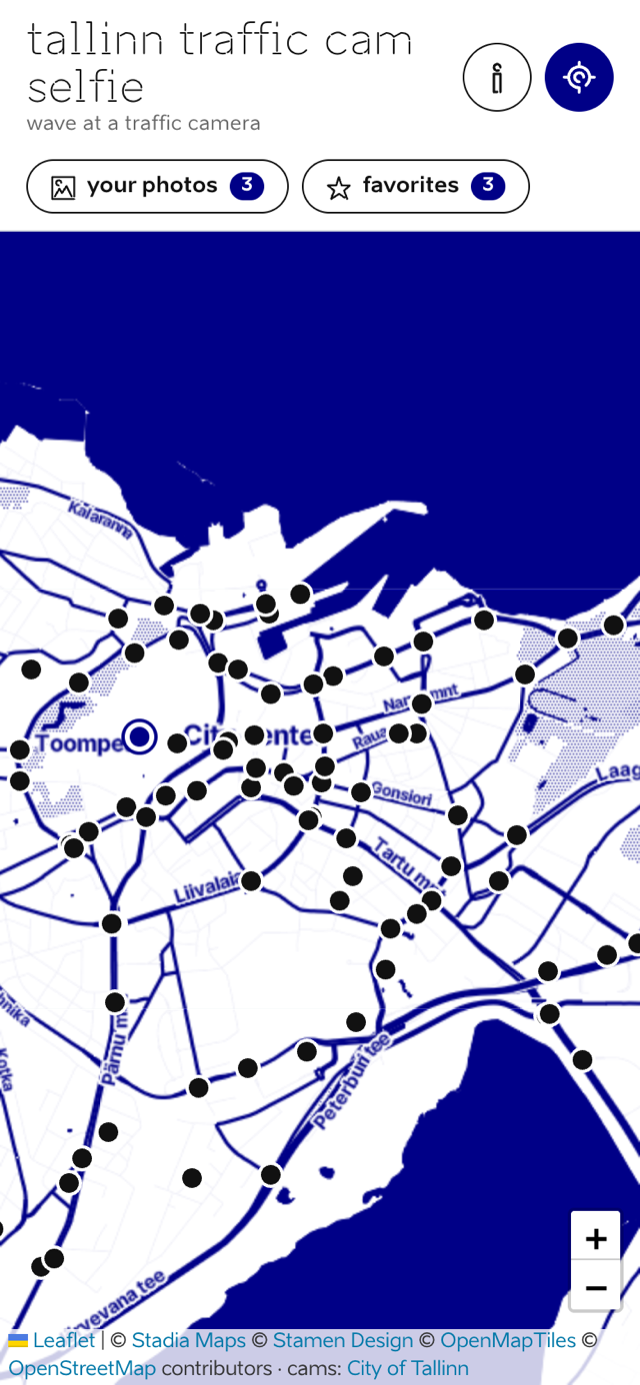
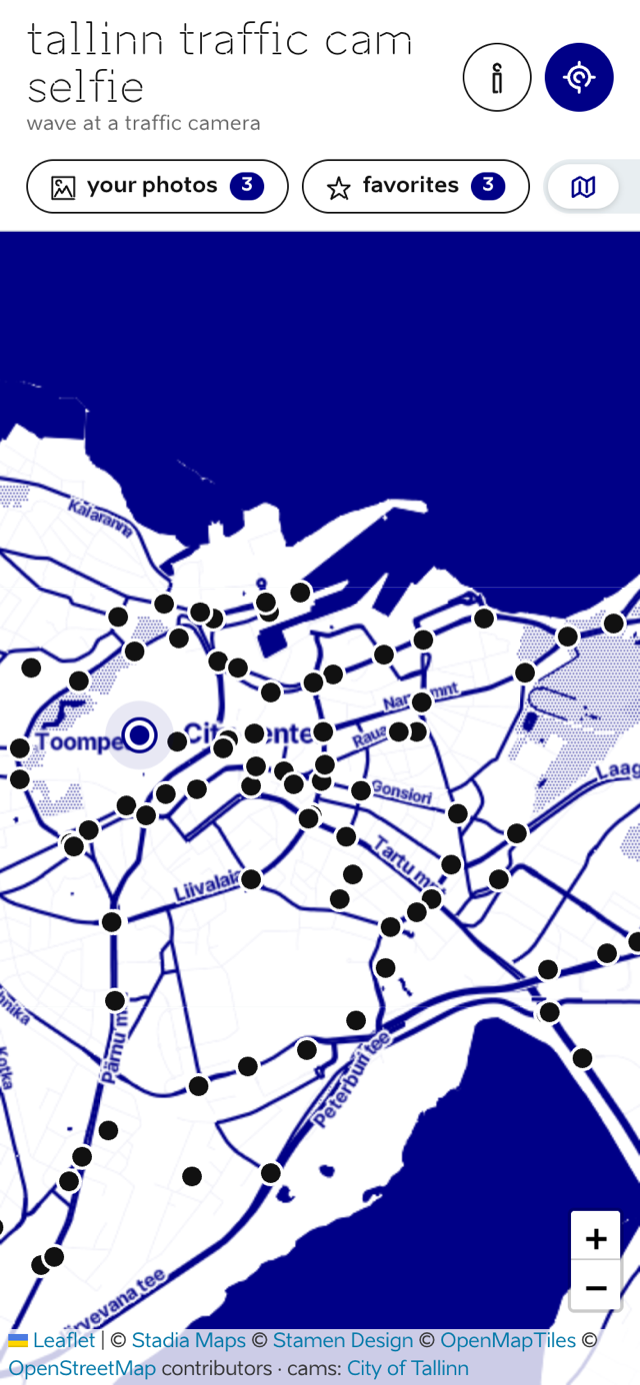
add list view

diff --git a/app/app.js b/app/app.js
@@ -11,8 +11,8 @@ const AREAS = {
 
 const $ = (id) => document.getElementById(id);
 const state = {
-  cams: [], spots: new Map(), markers: new Map(),
-  sel: null, selSpot: null,
+  cams: [], spots: new Map(), markers: new Map(), byId: new Map(),
+  sel: null, selSpot: null, view: "map",
   user: null, userMarker: null, accCircle: null, line: null,
   watching: false, watchId: null,
   previewTimer: null, wakeLock: null, lastCapture: "now",
@@ -271,6 +271,55 @@ function toggleFav(id) {
   updateFavBtn();
   updateNavCounts();
   if (!$("favs").hidden) renderFavs();
+  const star = listStars.get(id);
+  if (star) {
+    star.classList.toggle("on", isFav(id));
+    star.setAttribute("aria-pressed", String(isFav(id)));
+    star.title = isFav(id) ? "Remove from favorites" : "Save to favorites";
+  }
+}
+
+const STAR_SVG = '<svg class="ico" width="20" height="20" aria-hidden="true"><use href="#i-star"/></svg>';
+
+/* name, area badge, approx marker, distance; shared by favorites and list rows */
+function camRowMain(cam) {
+  const main = document.createElement("div");
+  main.className = "fav-main";
+  const name = document.createElement("div");
+  name.className = "fav-name";
+  name.textContent = camLabel(cam);
+  const meta = document.createElement("div");
+  meta.className = "fav-meta";
+  const badge = document.createElement("span");
+  badge.className = "badge";
+  badge.textContent = areaName(cam);
+  meta.appendChild(badge);
+  if (cam.approx) {
+    const ap = document.createElement("span");
+    ap.textContent = "≈ approximate location";
+    meta.appendChild(ap);
+  }
+  const dist = document.createElement("span");
+  dist.className = "fav-dist";
+  if (state.user) {
+    dist.textContent = `${fmtDist(haversine(state.user, cam))} ${compass(bearing(state.user, cam))}`;
+  }
+  meta.appendChild(dist);
+  main.appendChild(name);
+  main.appendChild(meta);
+  return { main, dist };
+}
+
+function rowGoesTo(row, cam) {
+  const go = () => {
+    $("favs").hidden = true;
+    selectSpot(state.spots.get(spotKey(cam)), cam.id);
+  };
+  row.tabIndex = 0;
+  row.setAttribute("role", "button");
+  row.setAttribute("aria-label", `Open ${shortName(cam)}`);
+  row.onclick = go;
+  row.onkeydown = (e) => { if (e.key === "Enter" || e.key === " ") { e.preventDefault(); go(); } };
 }
 
 function renderFavs() {
@@ -287,52 +336,110 @@ function renderFavs() {
   for (const cam of cams) {
     const row = document.createElement("div");
     row.className = "fav-row";
-    row.tabIndex = 0;
-    row.setAttribute("role", "button");
-    row.setAttribute("aria-label", `Open ${shortName(cam)}`);
+    rowGoesTo(row, cam);
 
-    const main = document.createElement("div");
-    main.className = "fav-main";
+    const rm = document.createElement("button");
+    rm.className = "fav-remove";
+    rm.title = "Remove from favorites";
+    rm.setAttribute("aria-label", "Remove from favorites");
+    rm.innerHTML = STAR_SVG;
+    rm.onclick = (e) => { e.stopPropagation(); toggleFav(cam.id); };
+
+    row.appendChild(camRowMain(cam).main);
+    row.appendChild(rm);
+    list.appendChild(row);
+  }
+}
+
+/* ---------- map / list view ---------- */
+const VIEW_KEY = "tcs-view-v1";
+const listStars = new Map(); // camId -> star button in the list
+const listDists = new Map(); // camId -> distance span in the list
+
+function setView(v) {
+  state.view = v;
+  try { localStorage.setItem(VIEW_KEY, v); } catch { /* full */ }
+  $("view-map").classList.toggle("on", v === "map");
+  $("view-list").classList.toggle("on", v === "list");
+  $("view-map").setAttribute("aria-pressed", String(v === "map"));
+  $("view-list").setAttribute("aria-pressed", String(v === "list"));
+  if (v === "list") { state.listTs = Date.now(); renderList(); }
+  $("list").hidden = v !== "list";
+}
+
+function renderList() {
+  const box = $("list");
+  box.innerHTML = "";
+  listStars.clear();
+  listDists.clear();
+  state.listSortedByDist = !!state.user;
+  const ts = state.listTs || Date.now();
+  const cams = [...state.cams].sort((a, b) =>
+    state.user
+      ? haversine(state.user, a) - haversine(state.user, b)
+      : shortName(a).localeCompare(shortName(b), "et"));
+  for (const cam of cams) {
+    const card = document.createElement("div");
+    card.className = "cam-card";
+    rowGoesTo(card, cam);
+
+    const imgWrap = document.createElement("div");
+    imgWrap.className = "cam-card-img";
+    const im = document.createElement("img");
+    im.src = imgUrl(cam.id, ts);
+    im.alt = cam.name;
+    im.loading = "lazy";
+    im.decoding = "async";
+    im.onerror = () => { im.remove(); };
+    imgWrap.appendChild(im);
+
+    const star = document.createElement("button");
+    star.className = "cam-card-star" + (isFav(cam.id) ? " on" : "");
+    star.title = isFav(cam.id) ? "Remove from favorites" : "Save to favorites";
+    star.setAttribute("aria-label", "Favorite");
+    star.setAttribute("aria-pressed", String(isFav(cam.id)));
+    star.innerHTML = '<svg class="ico" width="17" height="17" aria-hidden="true"><use href="#i-star"/></svg>';
+    star.onclick = (e) => { e.stopPropagation(); toggleFav(cam.id); };
+    listStars.set(cam.id, star);
+    imgWrap.appendChild(star);
+
     const name = document.createElement("div");
-    name.className = "fav-name";
+    name.className = "cam-card-name";
     name.textContent = camLabel(cam);
+
     const meta = document.createElement("div");
-    meta.className = "fav-meta";
+    meta.className = "cam-card-meta";
     const badge = document.createElement("span");
     badge.className = "badge";
     badge.textContent = areaName(cam);
     meta.appendChild(badge);
     if (cam.approx) {
       const ap = document.createElement("span");
-      ap.textContent = "≈ approximate location";
+      ap.textContent = "≈";
+      ap.title = "approximate location";
       meta.appendChild(ap);
     }
+    const dist = document.createElement("span");
+    dist.className = "cam-card-dist";
     if (state.user) {
-      const d = document.createElement("span");
-      d.className = "fav-dist";
-      d.textContent = `${fmtDist(haversine(state.user, cam))} ${compass(bearing(state.user, cam))}`;
-      meta.appendChild(d);
+      dist.textContent = `${fmtDist(haversine(state.user, cam))} ${compass(bearing(state.user, cam))}`;
     }
-    main.appendChild(name);
-    main.appendChild(meta);
+    meta.appendChild(dist);
+    listDists.set(cam.id, dist);
 
-    const rm = document.createElement("button");
-    rm.className = "fav-remove";
-    rm.title = "Remove from favorites";
-    rm.setAttribute("aria-label", "Remove from favorites");
-    rm.innerHTML = '<svg class="ico" width="20" height="20" aria-hidden="true"><use href="#i-star"/></svg>';
-    rm.onclick = (e) => { e.stopPropagation(); toggleFav(cam.id); };
+    card.appendChild(imgWrap);
+    card.appendChild(name);
+    card.appendChild(meta);
+    box.appendChild(card);
+  }
+}
 
-    const go = () => {
-      $("favs").hidden = true;
-      selectSpot(state.spots.get(spotKey(cam)), cam.id);
-    };
-    row.onclick = go;
-    row.onkeydown = (e) => { if (e.key === "Enter" || e.key === " ") { e.preventDefault(); go(); } };
-
-    row.appendChild(main);
-    row.appendChild(rm);
-    list.appendChild(row);
+function updateListDists() {
+  if (!state.user || $("list").hidden) return;
+  if (!state.listSortedByDist) { renderList(); return; } // first fix: re-sort nearest first
+  for (const [id, el] of listDists) {
+    const cam = state.byId.get(id);
+    if (cam) el.textContent = `${fmtDist(haversine(state.user, cam))} ${compass(bearing(state.user, cam))}`;
   }
 }
 
@@ -673,6 +780,7 @@ function onPosition(lat, lng, acc) {
   }
   updateDistance();
   updateLine();
+  updateListDists();
 }
 
 function startLocating() {
@@ -706,9 +814,11 @@ async function boot() {
     const r = await fetch("data/cameras.json");
     const data = await r.json();
     state.cams = data.cams.filter(c => c.lat != null);
+    state.byId = new Map(state.cams.map(c => [c.id, c]));
     const skipped = data.cams.length - state.cams.length;
     buildSpots();
     renderMarkers();
+    if (localStorage.getItem(VIEW_KEY) === "list") setView("list");
     toast(`${state.cams.length} cameras on the map${skipped ? ` (${skipped} without a location)` : ""}`);
   } catch (e) {
     toast("could not load camera data");
@@ -749,6 +859,8 @@ $("btn-fav").onclick = () => {
   toggleFav(state.sel.id);
   toast(isFav(state.sel.id) ? "saved to favorites" : "removed from favorites", 1800);
 };
+$("view-map").onclick = () => setView("map");
+$("view-list").onclick = () => setView("list");
 $("nav-favs").onclick = () => { renderFavs(); $("favs").hidden = false; };
 $("favs-close").onclick = () => { $("favs").hidden = true; };
 $("nav-gallery").onclick = () => { renderGallery(); $("gallery").hidden = false; };

diff --git a/app/index.html b/app/index.html
@@ -43,7 +43,7 @@
   </div>
 </header>
 
-<nav class="chips" id="nav" aria-label="Your photos and favorites">
+<nav class="chips" id="nav" aria-label="View, your photos, and favorites">
   <button class="chip" id="nav-gallery">
     <svg class="ico" width="15" height="15" aria-hidden="true"><use href="#i-picture"/></svg>
     your photos <span class="chip-count" id="count-gallery" hidden>0</span>
@@ -52,9 +52,20 @@
     <svg class="ico" width="15" height="15" aria-hidden="true"><use href="#i-star"/></svg>
     favorites <span class="chip-count" id="count-favs" hidden>0</span>
   </button>
+  <div class="seg" role="group" aria-label="Map or list view">
+    <button class="chip on" id="view-map" aria-pressed="true" aria-label="Map view" title="Map view">
+      <svg class="ico" width="17" height="17" aria-hidden="true"><use href="#i-map"/></svg>
+    </button>
+    <button class="chip" id="view-list" aria-pressed="false" aria-label="List view" title="List view">
+      <svg class="ico" width="17" height="17" aria-hidden="true"><use href="#i-list"/></svg>
+    </button>
+  </div>
 </nav>
 
-<main id="map" aria-label="Camera map"></main>
+<main class="stage">
+  <div id="map" aria-label="Camera map"></div>
+  <section class="cam-list" id="list" hidden aria-label="All cameras"></section>
+</main>
 
 <div class="status" id="status" hidden></div>
 
@@ -117,9 +128,17 @@
   <h2 class="result-title">about &amp; privacy</h2>
 
   <div class="about-body">
-    <p><b>tallinn cam selfie</b> is a hobby project that turns Tallinn's public
+    <p><b>tallinn traffic cam selfie</b> is a hobby project that turns Tallinn's public
     traffic cameras into selfie cameras: walk to one, start the countdown, wave.
     It is not affiliated with the City of Tallinn, Visit Estonia, or Brand Estonia.</p>
+
+    <h3>support this project</h3>
+    <p>free, no ads, no tracking. if it made you smile at a traffic camera,
+      you can support it with a small donation. the button is a plain link.
+      nothing loads until you tap it.</p>
+    <p><a class="btn btn-ghost" href="https://ko-fi.com/C3P325H540" target="_blank" rel="noopener">
+      <svg class="ico" width="18" height="18" aria-hidden="true"><use href="#i-coffee"/></svg>
+      support on ko-fi</a></p>
 
     <h3>data sources &amp; credits</h3>
     <ul>
@@ -260,6 +279,9 @@
     <symbol id="i-exclaim" viewBox="26 12 16 42"><path fill="none" stroke="currentColor" stroke-linecap="round" stroke-linejoin="round" stroke-width="3" d="M31.003 37H29l-1-22h8l-1 22m-3 12a4 4 0 1 1 4-4"/></symbol>
     <symbol id="i-info" viewBox="24 11 16 40"><path fill="none" stroke="currentColor" stroke-linecap="round" stroke-linejoin="round" stroke-width="3" d="M32.003 49H28V27h8v22m0-30a4 4 0 1 0-2 3.464"/></symbol>
     <symbol id="i-target" viewBox="0 0 24 24"><path fill="none" stroke="currentColor" stroke-linecap="round" stroke-linejoin="round" stroke-width="2" d="M19 12a7 7 0 0 0-7-7m7 7c0 2.17-.987 4.108-2.536 5.392M19 12h3M12 5a7 7 0 0 0-7 7m7-7V2M5 12a7 7 0 0 0 7 7v3M5 12H2m10 3a3 3 0 1 1 3-3"/></symbol>
+    <symbol id="i-map" viewBox="0 0 24 24"><path fill="none" stroke="currentColor" stroke-linecap="round" stroke-linejoin="round" stroke-width="2" d="M15 8v9M9 8v9M3 7.579 9 4l6 3.579L21 4v13.421L15 21l-6-3.579L3 21z"/></symbol>
+    <symbol id="i-list" viewBox="0 0 24 24"><path fill="none" stroke="currentColor" stroke-linecap="round" stroke-linejoin="round" stroke-width="2" d="M9 5h12M9 12h12M9 19h12M5 5a1 1 0 1 1-2 0 1 1 0 0 1 2 0m0 7a1 1 0 1 1-2 0 1 1 0 0 1 2 0m0 7a1 1 0 1 1-2 0 1 1 0 0 1 2 0"/></symbol>
+    <symbol id="i-coffee" viewBox="16 9 36 42"><path fill="none" stroke="currentColor" stroke-linecap="round" stroke-linejoin="round" stroke-width="3" d="M44 39l-.999 10H21l-2-19.07h26L44 35h2.865a4.134 4.134 0 1 1 0 8.27M30.085 29s-.76-6 2.28-9C35.408 17 35 14 35 11m-1.001 15s-.252-2.606 3-4 3-4 3-4"/></symbol>
     <symbol id="i-clock" viewBox="0 0 24 24"><path fill="none" stroke="currentColor" stroke-linecap="round" stroke-linejoin="round" stroke-width="2" d="M12 23C5.925 23 1 18.075 1 12m11 11a10.95 10.95 0 0 0 6-1.779M12 23v-2M1 12C1 5.925 5.925 1 12 1M1 12h2m9-11c6.075 0 11 4.925 11 11M12 1v2m11 9a10.95 10.95 0 0 1-1.779 6M23 12h-2m-9-6v6l4 2"/></symbol>
   </defs>
 </svg>

diff --git a/app/style.css b/app/style.css
@@ -95,8 +95,56 @@ body {
 /* optical centering: lowercase text sits low in its box, nudge icons to match */
 .chip .ico, .badge .ico, .btn .ico { position: relative; top: 1px; }
 
-/* ---- map ---- */
-#map { flex: 1; min-height: 0; z-index: 1; background: var(--mist); }
+/* ---- map / list stage ---- */
+.stage { flex: 1; min-height: 0; position: relative; z-index: 1; }
+#map { position: absolute; inset: 0; background: var(--mist); }
+.cam-list {
+  position: absolute; inset: 0; z-index: 1001; /* above leaflet controls */
+  background: var(--paper);
+  overflow-y: auto; -webkit-overflow-scrolling: touch;
+  padding: 12px var(--pad) 24px;
+  display: grid;
+  grid-template-columns: repeat(auto-fill, minmax(150px, 1fr));
+  gap: 14px 12px; align-content: start;
+}
+.cam-card { cursor: pointer; }
+.cam-card-img {
+  position: relative; aspect-ratio: 16/9;
+  background: var(--mist); border: 1px solid var(--line);
+  border-radius: 10px; overflow: hidden;
+}
+.cam-card-img img { width: 100%; height: 100%; object-fit: cover; display: block; }
+.cam-card-star {
+  position: absolute; top: 6px; right: 6px;
+  width: 32px; height: 32px; border-radius: 50%; border: none;
+  background: rgba(0, 0, 0, .45); color: #fff;
+  display: grid; place-items: center; cursor: pointer;
+}
+.cam-card-star.on { background: var(--accent); }
+.cam-card-name {
+  font-weight: 700; font-size: 13px; text-transform: lowercase;
+  line-height: 1.25; margin-top: 6px;
+}
+.cam-card-meta {
+  display: flex; gap: 6px; align-items: center; flex-wrap: wrap;
+  font-size: 11px; color: #777; margin-top: 3px;
+}
+.cam-card-meta .badge { font-size: 10px; padding: 2px 7px; }
+.cam-card-dist { color: var(--accent); font-weight: 700; }
+.seg {
+  margin-left: auto;
+  display: inline-flex; align-items: center; flex: 0 0 auto;
+  background: var(--mist); border-radius: 999px; padding: 3px; gap: 2px;
+}
+.seg .chip {
+  border: none; border-radius: 999px; background: none;
+  color: #8a959c; padding: 5px 13px;
+}
+.seg .chip.on {
+  background: var(--paper); color: var(--accent);
+  box-shadow: 0 1px 4px rgba(0, 0, 0, .16);
+}
+.seg .chip .ico { top: 0; }
 .leaflet-container { font-family: var(--body); }
 body.tile-toner .leaflet-tile { filter: url(#ve-duotone); }
 .cam-tip {

diff --git a/README.md b/README.md
@@ -18,9 +18,9 @@ black/white with deep-blue accents.
   <img src="docs/screenshots/map-mobile.png" width="390" alt="map of all 253 cameras with live user location">
 </p>
 
-| camera page | your photos | favorites |
-|---|---|---|
-| ![camera sheet with live preview, countdown buttons, and approximate-location notice](docs/screenshots/sheet-mobile.png) | ![gallery of your photos grouped by camera](docs/screenshots/gallery-mobile.png) | ![favorites list with distances](docs/screenshots/favorites-mobile.png) |
+| camera page | list view | your photos | favorites |
+|---|---|---|---|
+| ![camera sheet with live preview, countdown buttons, and approximate-location notice](docs/screenshots/sheet-mobile.png) | ![list view with live camera feeds](docs/screenshots/list-mobile.png) | ![gallery of your photos grouped by camera](docs/screenshots/gallery-mobile.png) | ![favorites list with distances](docs/screenshots/favorites-mobile.png) |
 
 ## Run it
 
@@ -39,6 +39,10 @@ Useful URL params: `?at=59.449,24.735` fakes your location (desktop testing),
 
 - **Map** (Leaflet + OSM) of all 253 city traffic cameras, grouped into 153
   spots; live user location with accuracy circle.
+- **List view**: an iOS-style toggle in the nav switches the map for a
+  scrollable list of every camera (nearest first when located, alphabetical
+  otherwise) with district, distance, and a favorite star on each row. The
+  chosen view is remembered.
 - **Camera page**: live preview (5 s refresh), distance + compass bearing,
   walking directions handoff to Google/Apple Maps, multi-view switcher where
   one junction has several cameras. Cameras with `"approx": true` coordinates

diff --git a/THIRD-PARTY-NOTICES.md b/THIRD-PARTY-NOTICES.md
@@ -83,7 +83,7 @@ not be modified or used to create logos, wordmarks, or trademarks.
 ## Icons: Brand Estonia
 
 The UI icons (camera, star, picture, loop, clock, exclamation, information,
-target) are from the
+target, map, list, coffee) are from the
 Brand Estonia icon set, © Estonian Business and Innovation Agency, distributed
 free of charge via the
 [Brand Estonia toolbox](https://toolbox.estonia.ee/document/17). They are
